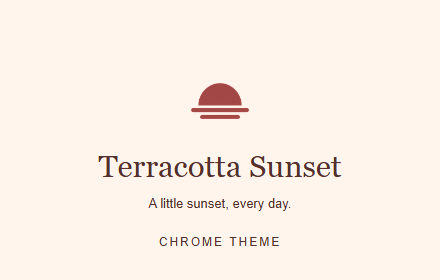
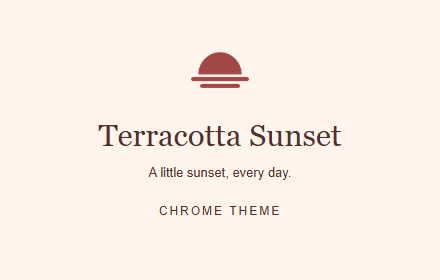
优化 README 预览与打包说明，纳入 440x280 promo 居中调整并重打包

Changed region(s): [[0.2068, 0.1714, 0.7682, 0.6571], [0.325, 0.6857, 0.6795, 0.7714], [0.3545, 0.8286, 0.65, 0.8857]]

diff --git a/store-assets/references/promo-1400x560.html b/store-assets/references/promo-1400x560.html
@@ -78,7 +78,7 @@
 .sunpromo{position:relative;overflow:hidden;background:#F4F3F1;color:#542F2B}
 .sunpromo:before{content:'';position:absolute;width:480px;height:480px;border-radius:50%;background:#FDB773;right:-110px;bottom:-210px}
 .sunpromo .copy{position:relative;z-index:2}.sunpromo h1{font-family:Georgia,serif;font-weight:normal}
-.sunpromo.small{width:440px;height:280px;padding:30px;background:#FFF5EC;text-align:center}.sunpromo.small:before{display:none}.sunpromo.small img{width:72px;height:72px;display:block;margin:0 auto 12px}.sunpromo.small h1{font-size:31px;margin:8px 0 12px}.sunpromo.small p{font-size:13px;margin:0 0 24px}
+.sunpromo.small{width:440px;height:280px;padding:0;background:#FFF5EC;text-align:center}.sunpromo.small:before{display:none}.sunpromo.small{display:flex;align-items:center;justify-content:center}.sunpromo.small .copy{transform:translateY(-14px)}.sunpromo.small img{width:72px;height:72px;display:block;margin:0 auto 12px}.sunpromo.small h1{font-size:31px;margin:8px 0 12px}.sunpromo.small p{font-size:13px;margin:0 0 24px}
 .sunpromo.wide{width:1400px;height:560px}.sunpromo.wide .copy{position:absolute;left:65px;top:85px;width:400px}.sunpromo.wide h1{font-size:60px;line-height:1.08;margin:25px 0}.sunpromo.wide p{font-size:20px;line-height:1.6}
 .sunpromo.wide:before{width:820px;height:820px;right:-100px;bottom:-370px}
 .sunpromo .preview{position:absolute;left:550px;top:80px;transform:scale(.60);transform-origin:top left;border-radius:16px;overflow:hidden;border:1px solid #A14646;box-shadow:0 12px 40px #542F2B25}

diff --git a/store-assets/references/promo-440x280.html b/store-assets/references/promo-440x280.html
@@ -78,7 +78,7 @@
 .sunpromo{position:relative;overflow:hidden;background:#F4F3F1;color:#542F2B}
 .sunpromo:before{content:'';position:absolute;width:480px;height:480px;border-radius:50%;background:#FDB773;right:-110px;bottom:-210px}
 .sunpromo .copy{position:relative;z-index:2}.sunpromo h1{font-family:Georgia,serif;font-weight:normal}
-.sunpromo.small{width:440px;height:280px;padding:30px;background:#FFF5EC;text-align:center}.sunpromo.small:before{display:none}.sunpromo.small img{width:72px;height:72px;display:block;margin:0 auto 12px}.sunpromo.small h1{font-size:31px;margin:8px 0 12px}.sunpromo.small p{font-size:13px;margin:0 0 24px}
+.sunpromo.small{width:440px;height:280px;padding:0;background:#FFF5EC;text-align:center}.sunpromo.small:before{display:none}.sunpromo.small{display:flex;align-items:center;justify-content:center}.sunpromo.small .copy{transform:translateY(-14px)}.sunpromo.small img{width:72px;height:72px;display:block;margin:0 auto 12px}.sunpromo.small h1{font-size:31px;margin:8px 0 12px}.sunpromo.small p{font-size:13px;margin:0 0 24px}
 .sunpromo.wide{width:1400px;height:560px}.sunpromo.wide .copy{position:absolute;left:65px;top:85px;width:400px}.sunpromo.wide h1{font-size:60px;line-height:1.08;margin:25px 0}.sunpromo.wide p{font-size:20px;line-height:1.6}
 .sunpromo.wide:before{width:820px;height:820px;right:-100px;bottom:-370px}
 .sunpromo .preview{position:absolute;left:550px;top:80px;transform:scale(.60);transform-origin:top left;border-radius:16px;overflow:hidden;border:1px solid #A14646;box-shadow:0 12px 40px #542F2B25}

diff --git a/store-assets/references/screenshot-1-browser.html b/store-assets/references/screenshot-1-browser.html
@@ -78,7 +78,7 @@
 .sunpromo{position:relative;overflow:hidden;background:#F4F3F1;color:#542F2B}
 .sunpromo:before{content:'';position:absolute;width:480px;height:480px;border-radius:50%;background:#FDB773;right:-110px;bottom:-210px}
 .sunpromo .copy{position:relative;z-index:2}.sunpromo h1{font-family:Georgia,serif;font-weight:normal}
-.sunpromo.small{width:440px;height:280px;padding:30px;background:#FFF5EC;text-align:center}.sunpromo.small:before{display:none}.sunpromo.small img{width:72px;height:72px;display:block;margin:0 auto 12px}.sunpromo.small h1{font-size:31px;margin:8px 0 12px}.sunpromo.small p{font-size:13px;margin:0 0 24px}
+.sunpromo.small{width:440px;height:280px;padding:0;background:#FFF5EC;text-align:center}.sunpromo.small:before{display:none}.sunpromo.small{display:flex;align-items:center;justify-content:center}.sunpromo.small .copy{transform:translateY(-14px)}.sunpromo.small img{width:72px;height:72px;display:block;margin:0 auto 12px}.sunpromo.small h1{font-size:31px;margin:8px 0 12px}.sunpromo.small p{font-size:13px;margin:0 0 24px}
 .sunpromo.wide{width:1400px;height:560px}.sunpromo.wide .copy{position:absolute;left:65px;top:85px;width:400px}.sunpromo.wide h1{font-size:60px;line-height:1.08;margin:25px 0}.sunpromo.wide p{font-size:20px;line-height:1.6}
 .sunpromo.wide:before{width:820px;height:820px;right:-100px;bottom:-370px}
 .sunpromo .preview{position:absolute;left:550px;top:80px;transform:scale(.60);transform-origin:top left;border-radius:16px;overflow:hidden;border:1px solid #A14646;box-shadow:0 12px 40px #542F2B25}

diff --git a/store-assets/references/screenshot-2-introduction.html b/store-assets/references/screenshot-2-introduction.html
@@ -78,7 +78,7 @@
 .sunpromo{position:relative;overflow:hidden;background:#F4F3F1;color:#542F2B}
 .sunpromo:before{content:'';position:absolute;width:480px;height:480px;border-radius:50%;background:#FDB773;right:-110px;bottom:-210px}
 .sunpromo .copy{position:relative;z-index:2}.sunpromo h1{font-family:Georgia,serif;font-weight:normal}
-.sunpromo.small{width:440px;height:280px;padding:30px;background:#FFF5EC;text-align:center}.sunpromo.small:before{display:none}.sunpromo.small img{width:72px;height:72px;display:block;margin:0 auto 12px}.sunpromo.small h1{font-size:31px;margin:8px 0 12px}.sunpromo.small p{font-size:13px;margin:0 0 24px}
+.sunpromo.small{width:440px;height:280px;padding:0;background:#FFF5EC;text-align:center}.sunpromo.small:before{display:none}.sunpromo.small{display:flex;align-items:center;justify-content:center}.sunpromo.small .copy{transform:translateY(-14px)}.sunpromo.small img{width:72px;height:72px;display:block;margin:0 auto 12px}.sunpromo.small h1{font-size:31px;margin:8px 0 12px}.sunpromo.small p{font-size:13px;margin:0 0 24px}
 .sunpromo.wide{width:1400px;height:560px}.sunpromo.wide .copy{position:absolute;left:65px;top:85px;width:400px}.sunpromo.wide h1{font-size:60px;line-height:1.08;margin:25px 0}.sunpromo.wide p{font-size:20px;line-height:1.6}
 .sunpromo.wide:before{width:820px;height:820px;right:-100px;bottom:-370px}
 .sunpromo .preview{position:absolute;left:550px;top:80px;transform:scale(.60);transform-origin:top left;border-radius:16px;overflow:hidden;border:1px solid #A14646;box-shadow:0 12px 40px #542F2B25}

diff --git a/scripts/generate-references.py b/scripts/generate-references.py
@@ -115,7 +115,7 @@ css += """
 .sunpromo{position:relative;overflow:hidden;background:#F4F3F1;color:#542F2B}
 .sunpromo:before{content:'';position:absolute;width:480px;height:480px;border-radius:50%;background:#FDB773;right:-110px;bottom:-210px}
 .sunpromo .copy{position:relative;z-index:2}.sunpromo h1{font-family:Georgia,serif;font-weight:normal}
-.sunpromo.small{width:440px;height:280px;padding:30px;background:#FFF5EC;text-align:center}.sunpromo.small:before{display:none}.sunpromo.small img{width:72px;height:72px;display:block;margin:0 auto 12px}.sunpromo.small h1{font-size:31px;margin:8px 0 12px}.sunpromo.small p{font-size:13px;margin:0 0 24px}
+.sunpromo.small{width:440px;height:280px;padding:0;background:#FFF5EC;text-align:center}.sunpromo.small:before{display:none}.sunpromo.small{display:flex;align-items:center;justify-content:center}.sunpromo.small .copy{transform:translateY(-14px)}.sunpromo.small img{width:72px;height:72px;display:block;margin:0 auto 12px}.sunpromo.small h1{font-size:31px;margin:8px 0 12px}.sunpromo.small p{font-size:13px;margin:0 0 24px}
 .sunpromo.wide{width:1400px;height:560px}.sunpromo.wide .copy{position:absolute;left:65px;top:85px;width:400px}.sunpromo.wide h1{font-size:60px;line-height:1.08;margin:25px 0}.sunpromo.wide p{font-size:20px;line-height:1.6}
 .sunpromo.wide:before{width:820px;height:820px;right:-100px;bottom:-370px}
 .sunpromo .preview{position:absolute;left:550px;top:80px;transform:scale(.60);transform-origin:top left;border-radius:16px;overflow:hidden;border:1px solid #A14646;box-shadow:0 12px 40px #542F2B25}

diff --git a/README.md b/README.md
@@ -57,13 +57,23 @@ The store listing is in preparation. Until it is live, load the unpacked copy wi
 
 ## Preview
 
+### Store screenshots · 1280×800
+
+**Browser interface** — the themed window with a bookmarks bar and the new tab page.
+
 ![Terracotta Sunset Theme browser preview](https://raw.githubusercontent.com/vaxicy/terracotta-sunset-theme/main/store-assets/screenshots/en/screenshot-1-browser.png)
+
+**Palette & highlights** — the four tones the theme is built from and what each one controls.
 
 ![Terracotta Sunset Theme palette](https://raw.githubusercontent.com/vaxicy/terracotta-sunset-theme/main/store-assets/screenshots/en/screenshot-2-introduction.png)
 
 ### Store promo tiles
 
+**Marquee tile · 1400×560** — “Warm tones. A calmer everyday browser.”
+
 ![Terracotta Sunset Theme marquee](https://raw.githubusercontent.com/vaxicy/terracotta-sunset-theme/main/store-assets/promo/1400x560.png)
+
+**Small tile · 440×280** — “A little sunset, every day.”
 
 <p align="center">
   <img src="https://raw.githubusercontent.com/vaxicy/terracotta-sunset-theme/main/store-assets/promo/440x280.png" width="440" alt="Terracotta Sunset Theme promo tile">
@@ -102,7 +112,9 @@ One composer renders all four store assets — both screenshots, both promo tile
 powershell -ExecutionPolicy Bypass -File scripts/package.ps1 -Force
 ```
 
-Writes a complete ZIP named `terracotta-sunset-theme-<version>.zip` to the default folder `D:\迅雷下载\vibe coding`, with `manifest.json` at the archive root. `-Force` overwrites any existing archive. Promo tiles and screenshots travel inside the ZIP but are uploaded separately in the Chrome Web Store listing form.
+Writes a complete ZIP named `terracotta-sunset-theme-<version>.zip` to the default folder `D:\迅雷下载\vibe coding`, with `manifest.json` at the archive root. `-Force` overwrites any existing archive.
+
+The screenshots and promo tiles travel inside the ZIP, but the store form still needs them uploaded one by one: `store-assets/screenshots/en/` fills the two screenshot slots, `store-assets/promo/1400x560.png` is the marquee tile and `store-assets/promo/440x280.png` is the small tile.
 
 ## License
 
